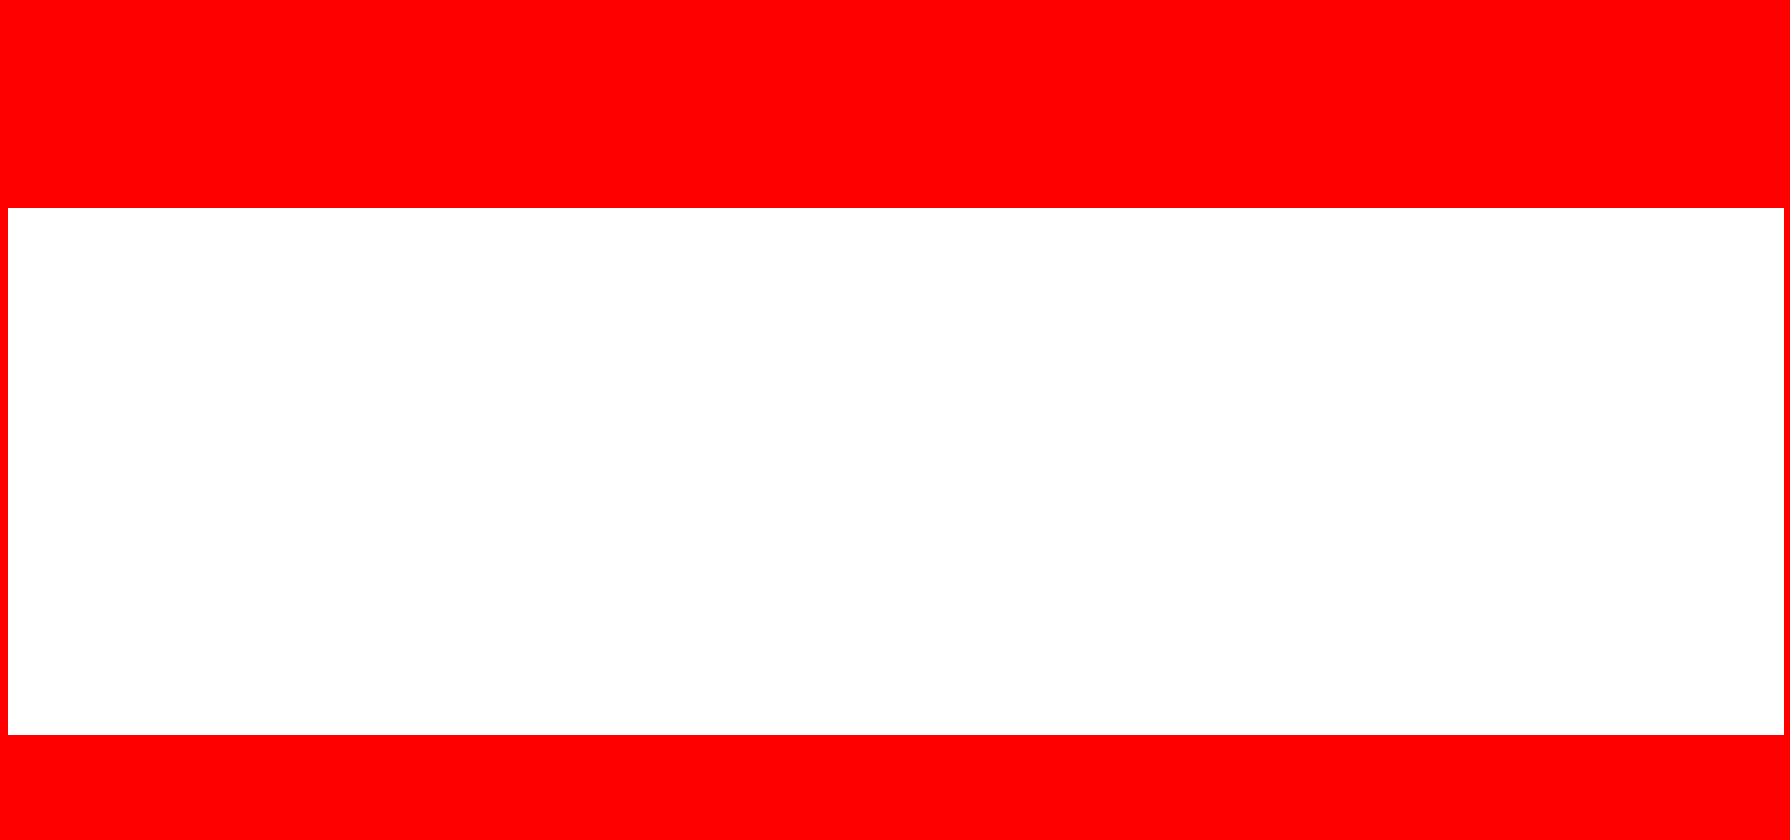
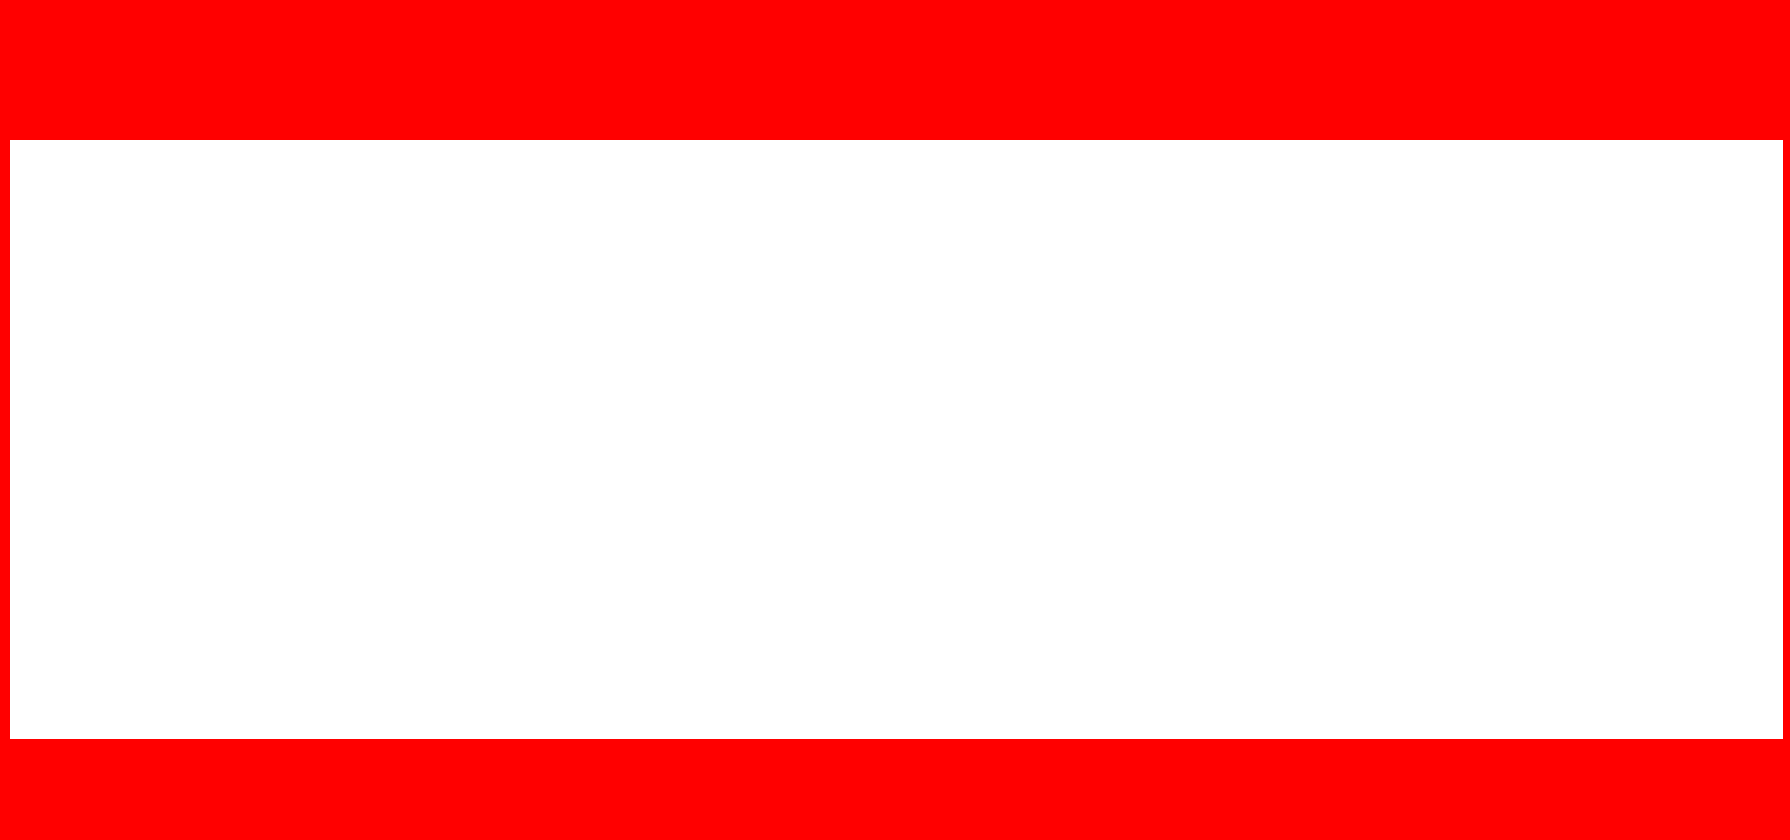
홍영현 : 플레이어 디버그맵 세팅 추가, 화이트컬러추가, 빨간색 인식 테스트

Changed region(s): [[0.0, 0.1548, 1.0, 0.2476], [0.0, 0.8667, 1.0, 0.8976]]

diff --git a/DirecX_Maple/GameEngineContents/Player.cpp b/DirecX_Maple/GameEngineContents/Player.cpp
@@ -3,9 +3,11 @@
 #include <GameEngineCore/GameEngineSpriteRenderer.h>
 #include <GameEngineCore/GameEngineTexture.h>
 #include <GameEngineCore/GameEngineCollision.h>
+
 #include "BackGroundMap.h"
 #include "Monster.h"
 #include "ContentsEnum.h"
+
 
 Player::Player()
 {
@@ -229,15 +231,21 @@ void Player::Update(float _Delta)
 	float4 WorldMousePos = GetLevel()->GetMainCamera()->GetWorldMousePos2D();
 	OutputDebugStringA(WorldMousePos.ToString("\n").c_str());
 
-	//GameEngineColor Color = PlayMap::MainMap->GetColor(Transform.GetWorldPosition(), GameEngineColor::RED);
+	BackGroundMap::MainMap->GetLevel()->GetName();
 
-	//if (GameEngineColor::RED != Color)
-	//{
-	//	GravityForce.Y -= _Delta * 10.0f;
-	//	Transform.AddLocalPosition(GravityForce * _Delta);
-	//}
-	//else
-	//{
-	//	GravityForce = 0.0f;
-	//}
+	GameEngineColor Color = BackGroundMap::MainMap->GetColor(Transform.GetWorldPosition(), GameEngineColor::RED, DebugMapName);
+
+	if (GameEngineColor::RED != Color)
+	{
+		GravityForce.Y -= _Delta * 100.0f;
+		Transform.AddLocalPosition(GravityForce * _Delta);
+	}
+	else
+	{
+		if (Color != GameEngineColor::White)
+		{
+			Transform.AddLocalPosition(float4::UP);
+		}
+		GravityForce = 0.0f;
+	}
 }

diff --git a/DirecX_Maple/GameEngineContents/BackGroundMap.h b/DirecX_Maple/GameEngineContents/BackGroundMap.h
@@ -18,7 +18,7 @@ public:
 	BackGroundMap& operator = (const BackGroundMap& _Other) = delete;
 	BackGroundMap& operator = (BackGroundMap&& _Other) noexcept = delete;
 
-	//GameEngineColor GetColor(float4 _Pos, GameEngineColor _DefaultColor = { 255, 255, 255, 255 });
+	GameEngineColor GetColor(float4 _Pos, GameEngineColor _DefaultColor = { 255, 255, 255, 255 }, std::string_view _DebugMapName ="");
 
 	void Init(const std::string& _FileName, const std::string& _DebugFileName);
 
@@ -31,6 +31,7 @@ protected:
 private:
 	bool SwitchRenderValue = true;
 	std::string FileName;
+	std::string DebugFileName;
 
 	std::shared_ptr<class GameEngineSpriteRenderer> Renderer;
 	std::shared_ptr<class GameEngineSpriteRenderer> DebugRenderer;

diff --git a/DirecX_Maple/GameEngineContents/Player.h b/DirecX_Maple/GameEngineContents/Player.h
@@ -36,6 +36,17 @@ public:
 
 	void TestEvent(GameEngineRenderer* _Renderer);
 
+	void SetDebugMap(std::string_view _DebugMapName)
+	{
+		//DebugMap = GameEngineTexture::Find(_DebugMapName);
+		DebugMapName = _DebugMapName;
+	}
+
+	void AddPos(float4 _Pos)
+	{
+		Pos += _Pos;
+	}
+
 protected:
 	void Start() override;
 	void Update(float _Delta) override;
@@ -43,8 +54,13 @@ protected:
 private:
 	std::shared_ptr<class GameEngineSpriteRenderer> MainSpriteRenderer;
 	std::shared_ptr<class GameEngineComponenet> TestCollision;
+
+	std::shared_ptr<GameEngineTexture> DebugMap;
+	std::string DebugMapName;
 	float4 GravityForce = { 0.0f, 0.0f, 0.0f, 1.0f };
 
 	std::shared_ptr<GameEngineCollision> Col;
+
+	float4 Pos;
 };
 

diff --git a/DirecX_Maple/GameEngineContents/PracticeLevel.cpp b/DirecX_Maple/GameEngineContents/PracticeLevel.cpp
@@ -50,10 +50,6 @@ void PracticeLevel::Start()
 		//GameEngineSprite::CreateSingle("JinHilla.png");
 	}
 
-	{
-		std::shared_ptr<Player> NewPlayer = CreateActor<Player>(ContentsObjectType::Player);
-	}
-
 	std::shared_ptr<GameEngineTexture> Tex = GameEngineTexture::Find("PracticeMap.png");
 	float4 HScale = Tex->GetScale().Half();
 	HScale.Y *= -1.0f;
@@ -63,6 +59,11 @@ void PracticeLevel::Start()
 	{
 		Map = CreateActor<BackGroundMap>(ContentsObjectType::BackGround);
 		Map->Init("PracticeMap.png", "PracticeDebugMap.png");
+	}
+
+	{
+		std::shared_ptr<Player> NewPlayer = CreateActor<Player>(ContentsObjectType::Player);
+		NewPlayer->SetDebugMap("PracticeDebugMap.png");
 	}
 }
 

diff --git a/DirecX_Maple/GameEngineCore/GameEngineTexture.cpp b/DirecX_Maple/GameEngineCore/GameEngineTexture.cpp
@@ -9,6 +9,7 @@
 #endif
 
 const GameEngineColor GameEngineColor::RED = { 255, 0, 0, 255 };
+const GameEngineColor GameEngineColor::White = { 255, 255, 255, 255 };
 
 GameEngineTexture::GameEngineTexture()
 {

diff --git a/DirecX_Maple/GameEngineContents/BossEntranceLevel.cpp b/DirecX_Maple/GameEngineContents/BossEntranceLevel.cpp
@@ -46,6 +46,7 @@ void BossEntranceLevel::Start()
 
 	{
 		std::shared_ptr<Player> NewPlayer = CreateActor<Player>(ContentsObjectType::Player);
+		NewPlayer->SetDebugMap("EntranceDebugMap.png");
 	}
 }
 

diff --git a/DirecX_Maple/GameEngineContents/BossRewardLevel.cpp b/DirecX_Maple/GameEngineContents/BossRewardLevel.cpp
@@ -46,6 +46,7 @@ void BossRewardLevel::Start()
 
 	{
 		std::shared_ptr<Player> NewPlayer = CreateActor<Player>(ContentsObjectType::Player);
+		NewPlayer->SetDebugMap("RewardDebugMap.png");
 	}
 }
 

diff --git a/DirecX_Maple/GameEngineCore/GameEngineTexture.h b/DirecX_Maple/GameEngineCore/GameEngineTexture.h
@@ -7,6 +7,7 @@ class GameEngineColor
 {
 public:
 	static const GameEngineColor RED;
+	static const GameEngineColor White;
 
 	unsigned int R = 0;
 	unsigned int G = 0;

diff --git a/DirecX_Maple/GameEngineContents/PlayerState.cpp b/DirecX_Maple/GameEngineContents/PlayerState.cpp
@@ -1,0 +1,1 @@
+#include "PreCompile.h"
